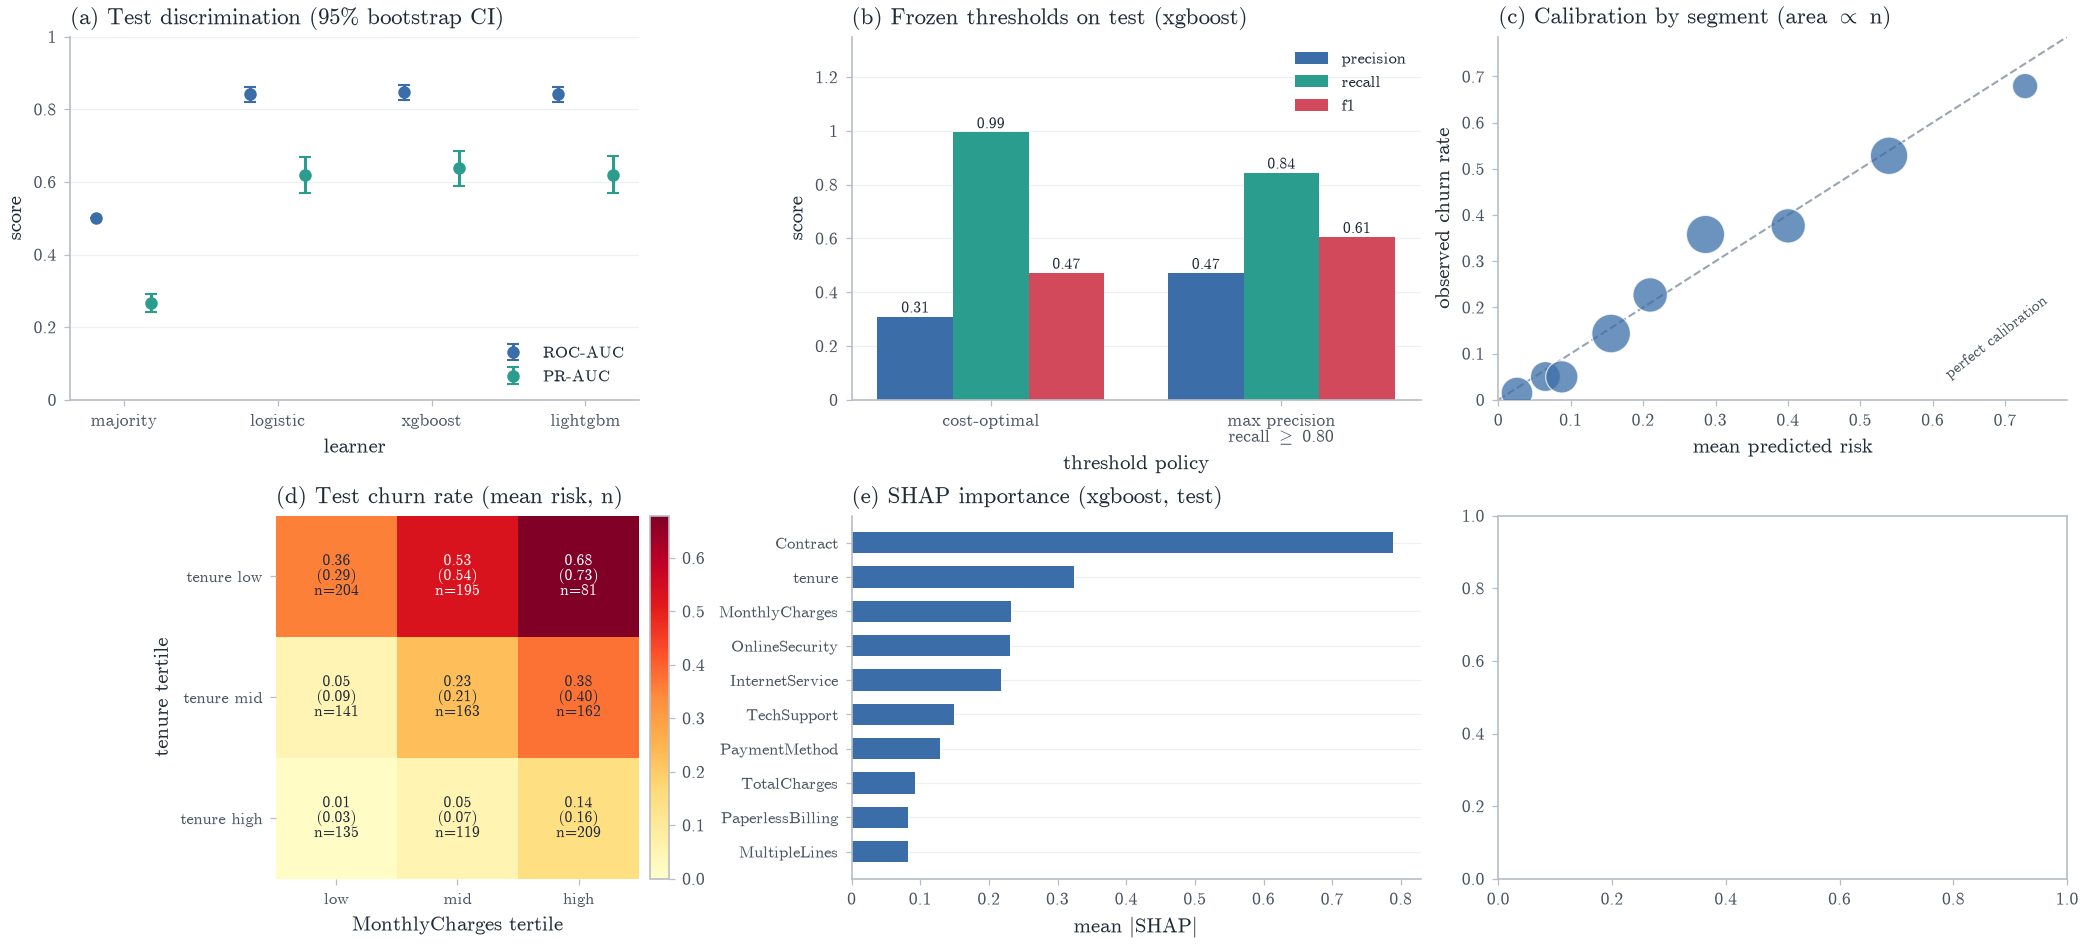
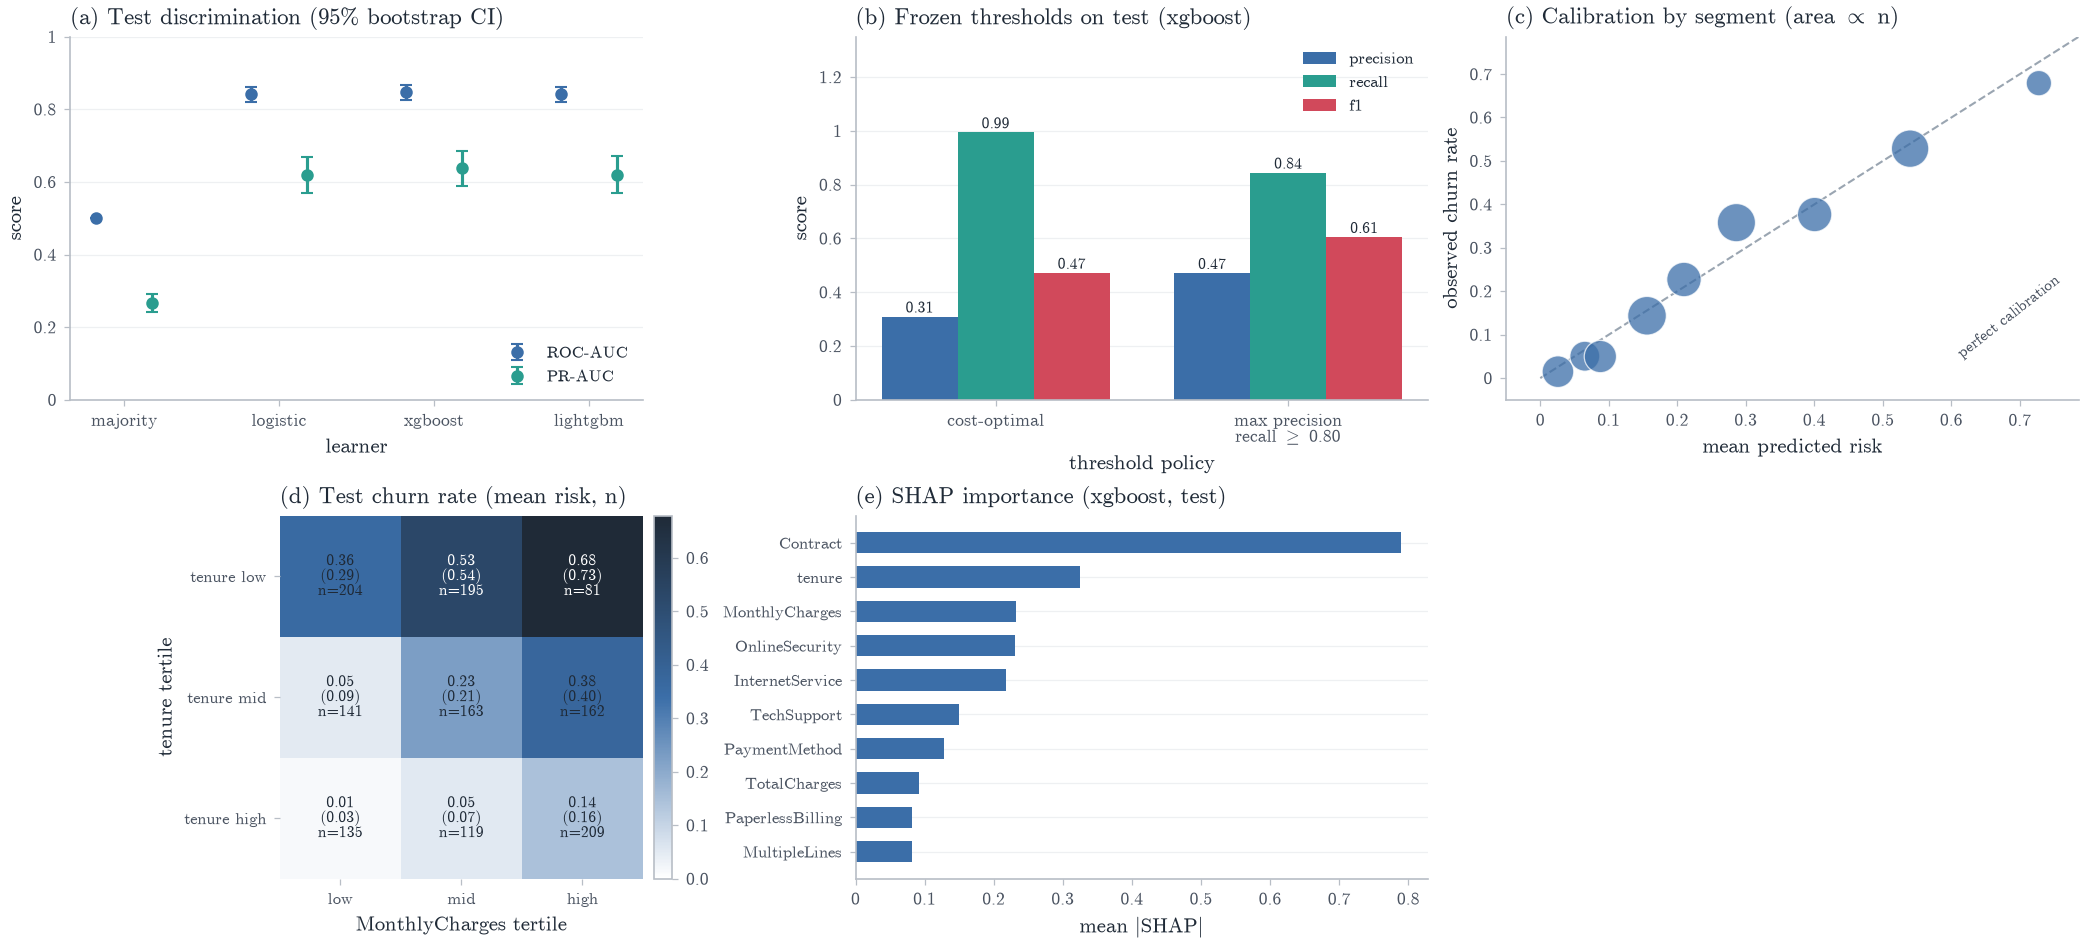
fix(figure): drop empty cell, sequential heatmap, pad scatter
Hide the unused bottom-right grid cell, switch the churn-risk heatmap to the shared sequential map, and pad the calibration axis limits so edge markers stay inside. Add the shared render checks: no empty axes, no off-scale points, no clipped markers, no coincident line series.

diff --git a/scripts/render_figure.py b/scripts/render_figure.py
@@ -22,6 +22,8 @@ import matplotlib.pyplot as plt  # noqa: E402
 import matplotlib.ticker as mticker  # noqa: E402
 import numpy as np  # noqa: E402
 import pandas as pd  # noqa: E402
+from matplotlib.collections import PathCollection  # noqa: E402
+from matplotlib.colors import LinearSegmentedColormap  # noqa: E402
 
 ROOT = Path(__file__).resolve().parent.parent
 RESULTS = Path(os.environ.get("CHURN_RESULTS_DIR", ROOT / "results"))
@@ -36,6 +38,9 @@ GRAY = "#9AA5B1"
 GRID = "#EEF0F2"
 SPINE = "#B8BEC6"
 TICK_LABEL = "#4A5361"
+SEQUENTIAL = LinearSegmentedColormap.from_list(
+    "seq", ["#FFFFFF", BLUE, INK]
+)
 
 plt.rcParams.update(
     {
@@ -176,6 +181,8 @@ def verify_categories() -> None:
 def _all_texts(fig: plt.Figure) -> list[plt.Text]:
     items = []
     for ax in fig.axes:
+        if not ax.axison:
+            continue
         cand = [ax.title, ax.xaxis.label, ax.yaxis.label]
         cand += list(ax.texts)
         for axis in (ax.xaxis, ax.yaxis):
@@ -377,6 +384,175 @@ def check_legend_pixels(fig: plt.Figure, path: Path) -> list[str]:
     return out
 
 
+
+def check_empty_axes(fig: plt.Figure) -> list[str]:
+    """Every axes must contain at least one plotted artist."""
+    fig.canvas.draw()
+    fig.canvas.draw()
+    out = []
+    for i, ax in enumerate(fig.axes):
+        if not ax.axison:
+            continue
+        artists = (len(ax.lines) + len(ax.collections)
+                   + len(ax.patches) + len(ax.images))
+        if artists == 0:
+            out.append(f"axes {i} has no plotted artists")
+    return out
+
+
+def check_offscale(fig: plt.Figure) -> list[str]:
+    """Every data point must lie inside its axes limits."""
+    fig.canvas.draw()
+    fig.canvas.draw()
+    out = []
+    eps = 1e-9
+    for i, ax in enumerate(fig.axes):
+        x0, x1 = ax.get_xlim()
+        y0, y1 = ax.get_ylim()
+        for coll in ax.collections:
+            if (coll.get_offset_transform() != ax.transData
+                    or not isinstance(coll, PathCollection)):
+                continue
+            offs = coll.get_offsets()
+            if len(offs) == 0 or len(offs) > 20000:
+                continue
+            xs, ys = offs[:, 0], offs[:, 1]
+            bad = int(
+                ((xs < x0 - eps) | (xs > x1 + eps)
+                 | (ys < y0 - eps) | (ys > y1 + eps)).sum()
+            )
+            if bad:
+                out.append(
+                    f"axes {i}: {bad} collection points outside limits"
+                )
+        for line in ax.lines:
+            if line.get_transform() != ax.transData:
+                continue
+            try:
+                pts = line.get_path().vertices
+            except Exception:
+                continue
+            if len(pts) == 0:
+                continue
+            xs, ys = pts[:, 0], pts[:, 1]
+            bad = int(
+                ((xs < x0 - eps) | (xs > x1 + eps)
+                 | (ys < y0 - eps) | (ys > y1 + eps)).sum()
+            )
+            if bad:
+                out.append(
+                    f"axes {i}: {bad} line vertices outside limits"
+                )
+        ren = fig.canvas.get_renderer()
+        bb = ax.get_window_extent(ren)
+        clipped = 0
+        for patch in ax.patches:
+            try:
+                pb = patch.get_window_extent(ren)
+            except Exception:
+                continue
+            if (pb.x0 < bb.x0 - 1 or pb.x1 > bb.x1 + 1
+                    or pb.y0 < bb.y0 - 1 or pb.y1 > bb.y1 + 1):
+                clipped += 1
+        if clipped:
+            out.append(f"axes {i}: {clipped} patches past axes bounds")
+    return out
+
+
+def check_clipped_markers(fig: plt.Figure) -> list[str]:
+    """No marker may extend past the axes bounds."""
+    fig.canvas.draw()
+    fig.canvas.draw()
+    ren = fig.canvas.get_renderer()
+    out = []
+    for i, ax in enumerate(fig.axes):
+        bb = ax.get_window_extent(ren)
+        px_per_pt = fig.dpi / 72.0
+        flagged = False
+        for coll in ax.collections:
+            if (coll.get_offset_transform() != ax.transData or flagged
+                    or not isinstance(coll, PathCollection)):
+                continue
+            offs = coll.get_offsets()
+            if len(offs) == 0:
+                continue
+            try:
+                sizes = np.asarray(coll.get_sizes(), dtype=float)
+            except Exception:
+                sizes = np.array([])
+            if len(sizes) == len(offs) and len(sizes):
+                radii_px = np.sqrt(sizes) / 2.0 * px_per_pt
+            elif len(sizes):
+                radii_px = np.full(
+                    len(offs), np.sqrt(sizes.max()) / 2.0 * px_per_pt
+                )
+            else:
+                radii_px = np.full(len(offs), 3.0 * px_per_pt)
+            pts = ax.transData.transform(offs)
+            hit = (
+                (pts[:, 0] - radii_px < bb.x0)
+                | (pts[:, 0] + radii_px > bb.x1)
+                | (pts[:, 1] - radii_px < bb.y0)
+                | (pts[:, 1] + radii_px > bb.y1)
+            ).any()
+            if hit:
+                out.append(f"axes {i}: marker extends past axes bounds")
+                flagged = True
+        for line in ax.lines:
+            if flagged:
+                break
+            if line.get_transform() != ax.transData:
+                continue
+            marker = line.get_marker()
+            if marker in (None, "", " ", "None", "none", "|", "_"):
+                continue
+            ms = line.get_markersize()
+            radius_px = (ms / 2.0) * px_per_pt
+            pts = ax.transData.transform(line.get_path().vertices)
+            if len(pts) == 0:
+                continue
+            hit = (
+                (pts[:, 0] - radius_px < bb.x0)
+                | (pts[:, 0] + radius_px > bb.x1)
+                | (pts[:, 1] - radius_px < bb.y0)
+                | (pts[:, 1] + radius_px > bb.y1)
+            ).any()
+            if hit:
+                out.append(f"axes {i}: marker extends past axes bounds")
+                flagged = True
+    return out
+
+
+def check_coincident_lines(fig: plt.Figure) -> list[str]:
+    """No two line series may be fully coincident."""
+    fig.canvas.draw()
+    fig.canvas.draw()
+    out = []
+    for i, ax in enumerate(fig.axes):
+        lines = [
+            ln for ln in ax.lines
+            if ln.get_transform() == ax.transData
+        ]
+        seen = False
+        for a in range(len(lines)):
+            if seen:
+                break
+            for b in range(a + 1, len(lines)):
+                pa = lines[a].get_path().vertices
+                pb = lines[b].get_path().vertices
+                if len(pa) != len(pb) or len(pa) == 0:
+                    continue
+                if np.allclose(pa, pb, atol=1e-6, equal_nan=True):
+                    out.append(
+                        f"axes {i}: coincident line series "
+                        f"({lines[a].get_label()!r}, "
+                        f"{lines[b].get_label()!r})"
+                    )
+                    seen = True
+                    break
+    return out
+
+
 def finish(fig: plt.Figure, out: Path) -> None:
     """Verify categorical labels, save, then fail on any check violation."""
     fig.canvas.draw()
@@ -388,6 +564,10 @@ def finish(fig: plt.Figure, out: Path) -> None:
     problems += check_legend_data(fig)
     problems += check_annotation_data(fig)
     problems += check_legend_pixels(fig, out)
+    problems += check_empty_axes(fig)
+    problems += check_offscale(fig)
+    problems += check_clipped_markers(fig)
+    problems += check_coincident_lines(fig)
     plt.close(fig)
     if problems:
         for p in problems[:30]:
@@ -404,7 +584,8 @@ def main() -> None:
     names = [n for n in ORDER if n in metrics["models"]]
 
     fig, axes = plt.subplots(2, 3, figsize=(13.9, 6.3), dpi=DPI, layout="constrained")
-    (a1, a2, a3), (a4, a5, _a6) = axes
+    (a1, a2, a3), (a4, a5, a6) = axes
+    a6.set_axis_off()
 
     # (a) Test discrimination per learner with bootstrap CIs.
     x = np.arange(len(names))
@@ -473,8 +654,8 @@ def main() -> None:
     )
     lim = max(0.55, float(max(risks.max(), churn.max())) * 1.08)
     a3.plot([0, lim], [0, lim], color=GRAY, lw=1.0, ls="--", zorder=2)
-    a3.set_xlim(0, lim)
-    a3.set_ylim(0, lim)
+    a3.set_xlim(-0.05, lim)
+    a3.set_ylim(-0.05, lim)
     a3.set_xlabel("mean predicted risk")
     a3.set_ylabel("observed churn rate")
     style(a3, "c", "Calibration by segment (area $\\propto$ n)", grid=False)
@@ -502,7 +683,7 @@ def main() -> None:
         risk[i, j] = row["mean_predicted_risk"]
         counts_g[i, j] = row["n"]
     vmax = max(0.5, float(np.nanmax(grid)))
-    im = a4.imshow(grid, cmap="YlOrRd", vmin=0.0, vmax=vmax)
+    im = a4.imshow(grid, cmap=SEQUENTIAL, vmin=0.0, vmax=vmax)
     for i in range(grid.shape[0]):
         for j in range(grid.shape[1]):
             a4.text(
